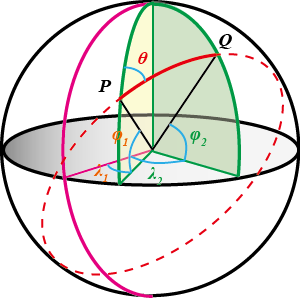
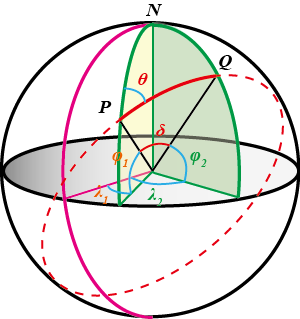
new post

Changed region(s): [[0.0, 0.0, 1.0, 1.0], [0.42, 0.6946, 0.78, 0.9362]]

diff --git a/_posts/2017-03-08-球面距离与方位角公式的推导：解三角形法.md b/_posts/2017-03-08-球面距离与方位角公式的推导：解三角形法.md
@@ -23,18 +23,30 @@ mathjax: true
 
 ## 基本公式及其推导
 
-将地球近似为半径$R=6371km$的标准球体，可以得到根据两点经纬度计算球面距离及方位角的公式。
+将地球近似为平均半径$R=6371km$的标准球体，可以得到根据两点经纬度计算球面距离及方位角的公式。
 基本推导方法为解三角形，包括平面三角形和球面三角形的基本知识。
 
 ### 球面距离
 
-球面距离的常用公式为`Haversine`公式：
+球面距离$d$的常用公式为`Haversine`公式：
 
 \begin{align\*}
 a &= \sin^2\frac{\Delta\varphi}{2} + \cos\varphi_1 * \cos\varphi_2 * sin^2\frac{\Delta\lambda}{2}\\\\\\
-c &= 2\,atan2\frac{\sqrt{a}}{\sqrt{1-a}} \\\\\\
-d &= R*c
+\delta &= 2\,\atan2\frac{\sqrt{a}}{\sqrt{1-a}} \\\\\\
+d &= R*\delta
 \end{align\*}
+
+其中，$varphi$是纬度，$\lambda$是经度，$R$是地球平均半径。注意，代入计算中的经、纬度为换算后的弧度值。
+
+如果在球面三角形NPQ中直接使用球面三角形的余弦公式，则得到
+
+\begin{align\*}
+\delta &= \acos(\sin\phi_1*\sin\phi_2 + \cos\phi_1*\cos\phi_2*\cos\Delta\lambda) \\\\\\
+d &= R*\delta
+\end{align\*}
+
+上式具有更简洁的形式，不过当P、Q相邻很近即$\delta$趋近于0时，$\cos\delta$趋近于1。
+其后果是一旦计算设备的精度不够，可能由于舍入误差而导致错误的结果。
 
 ### 方位角
 
